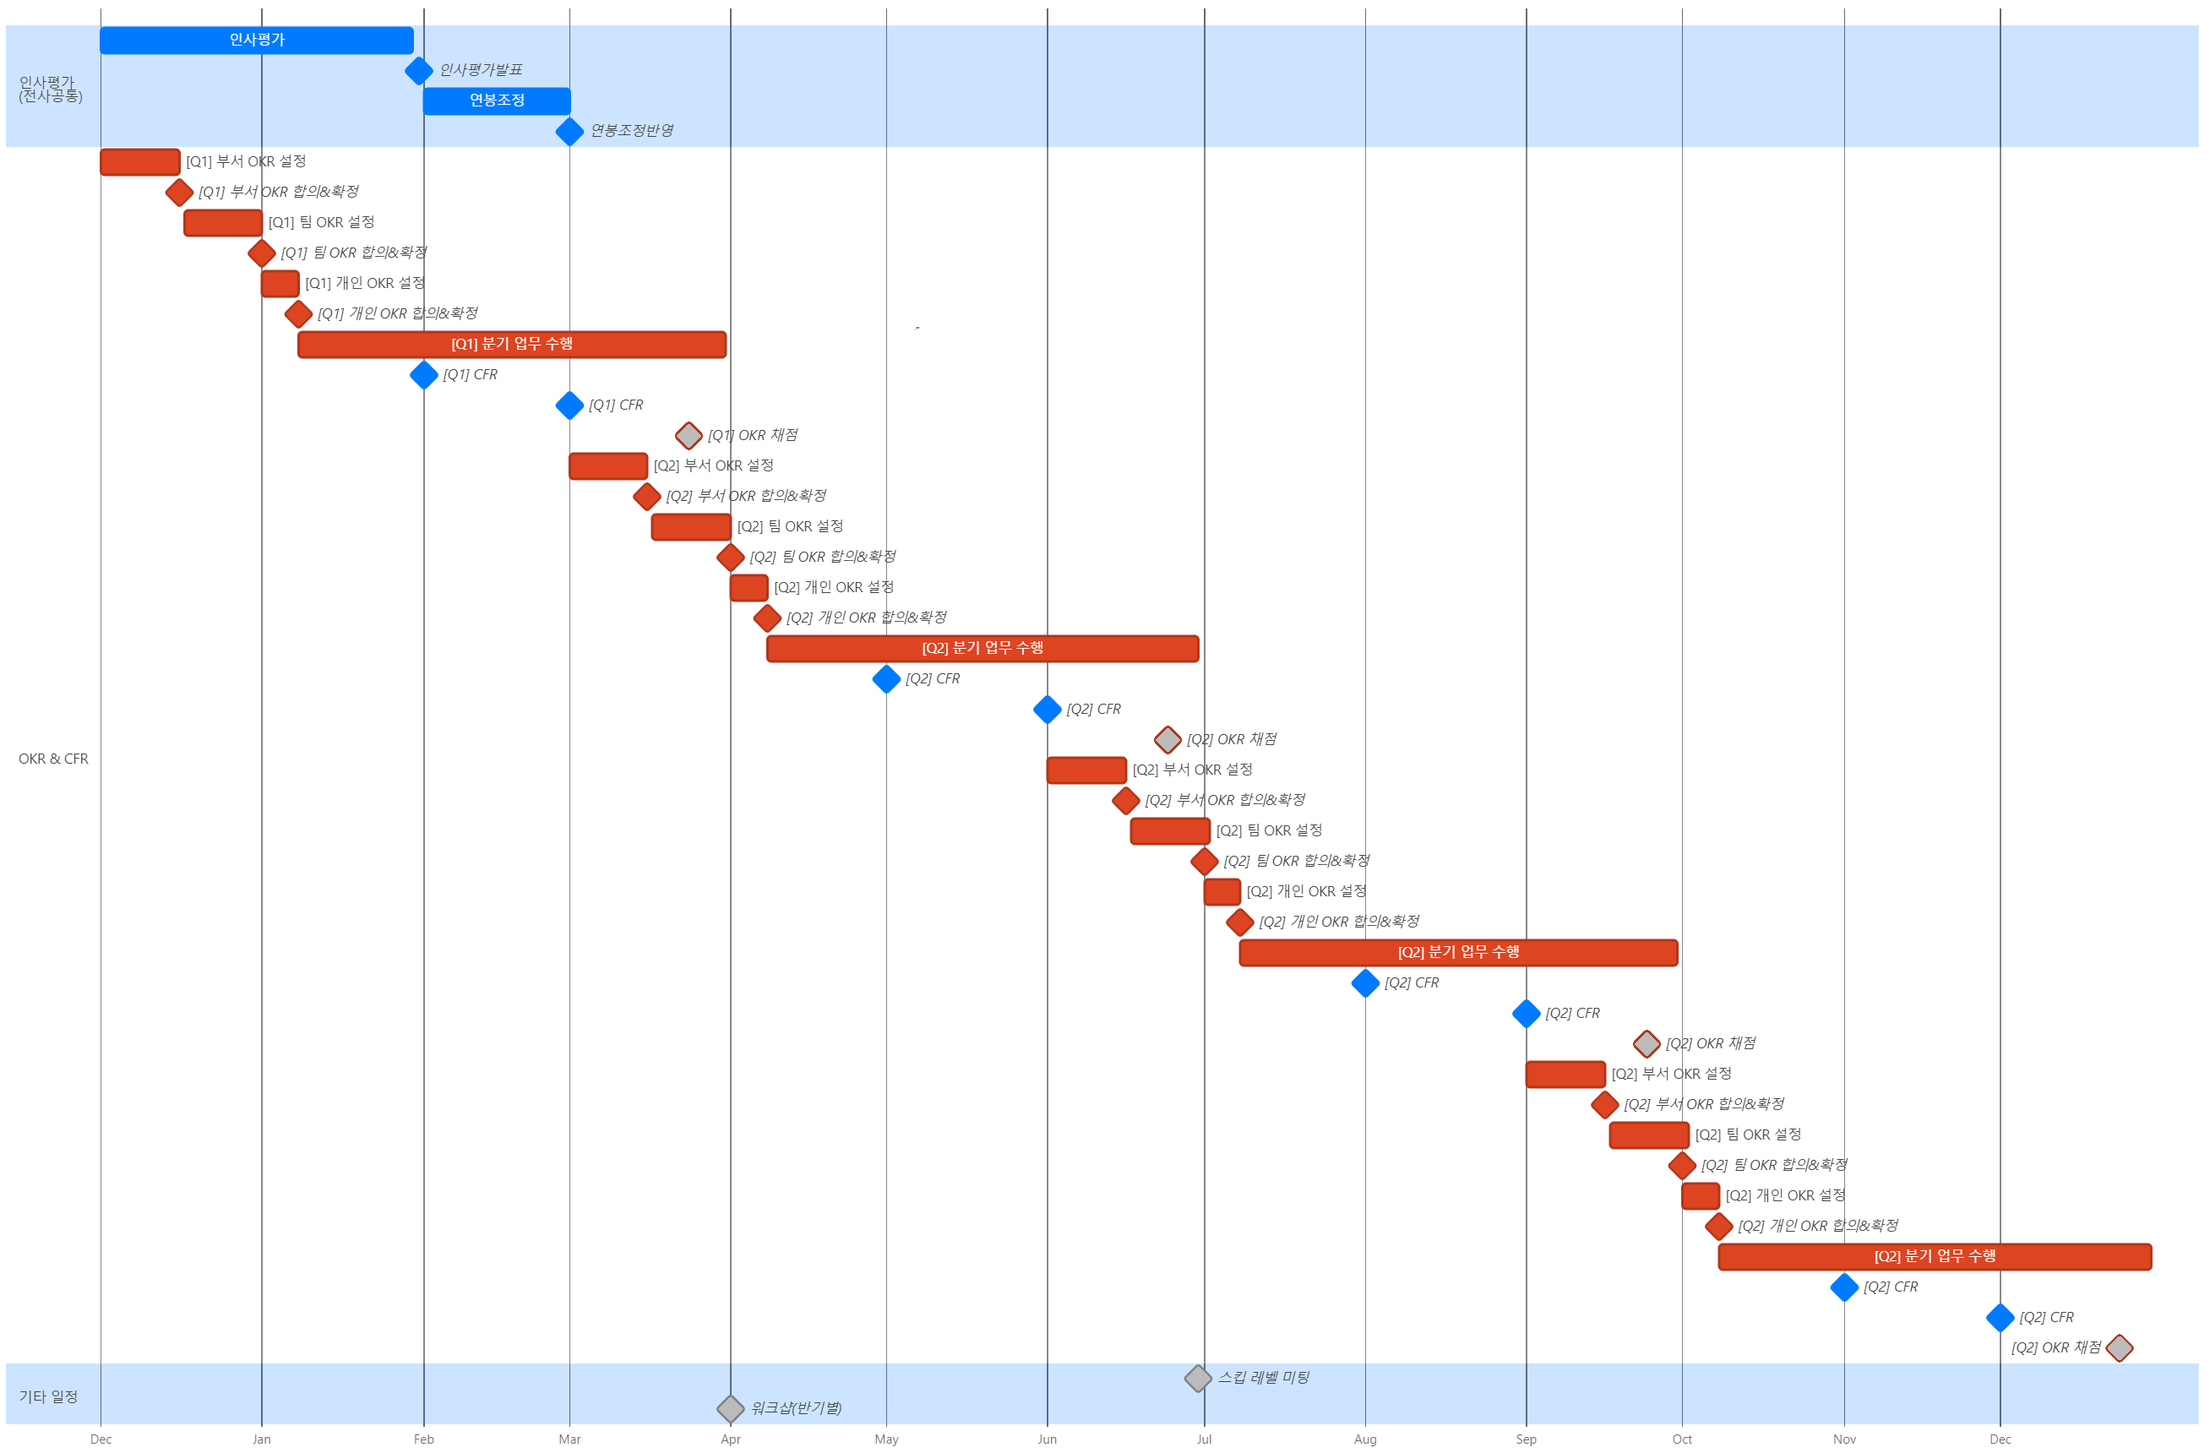
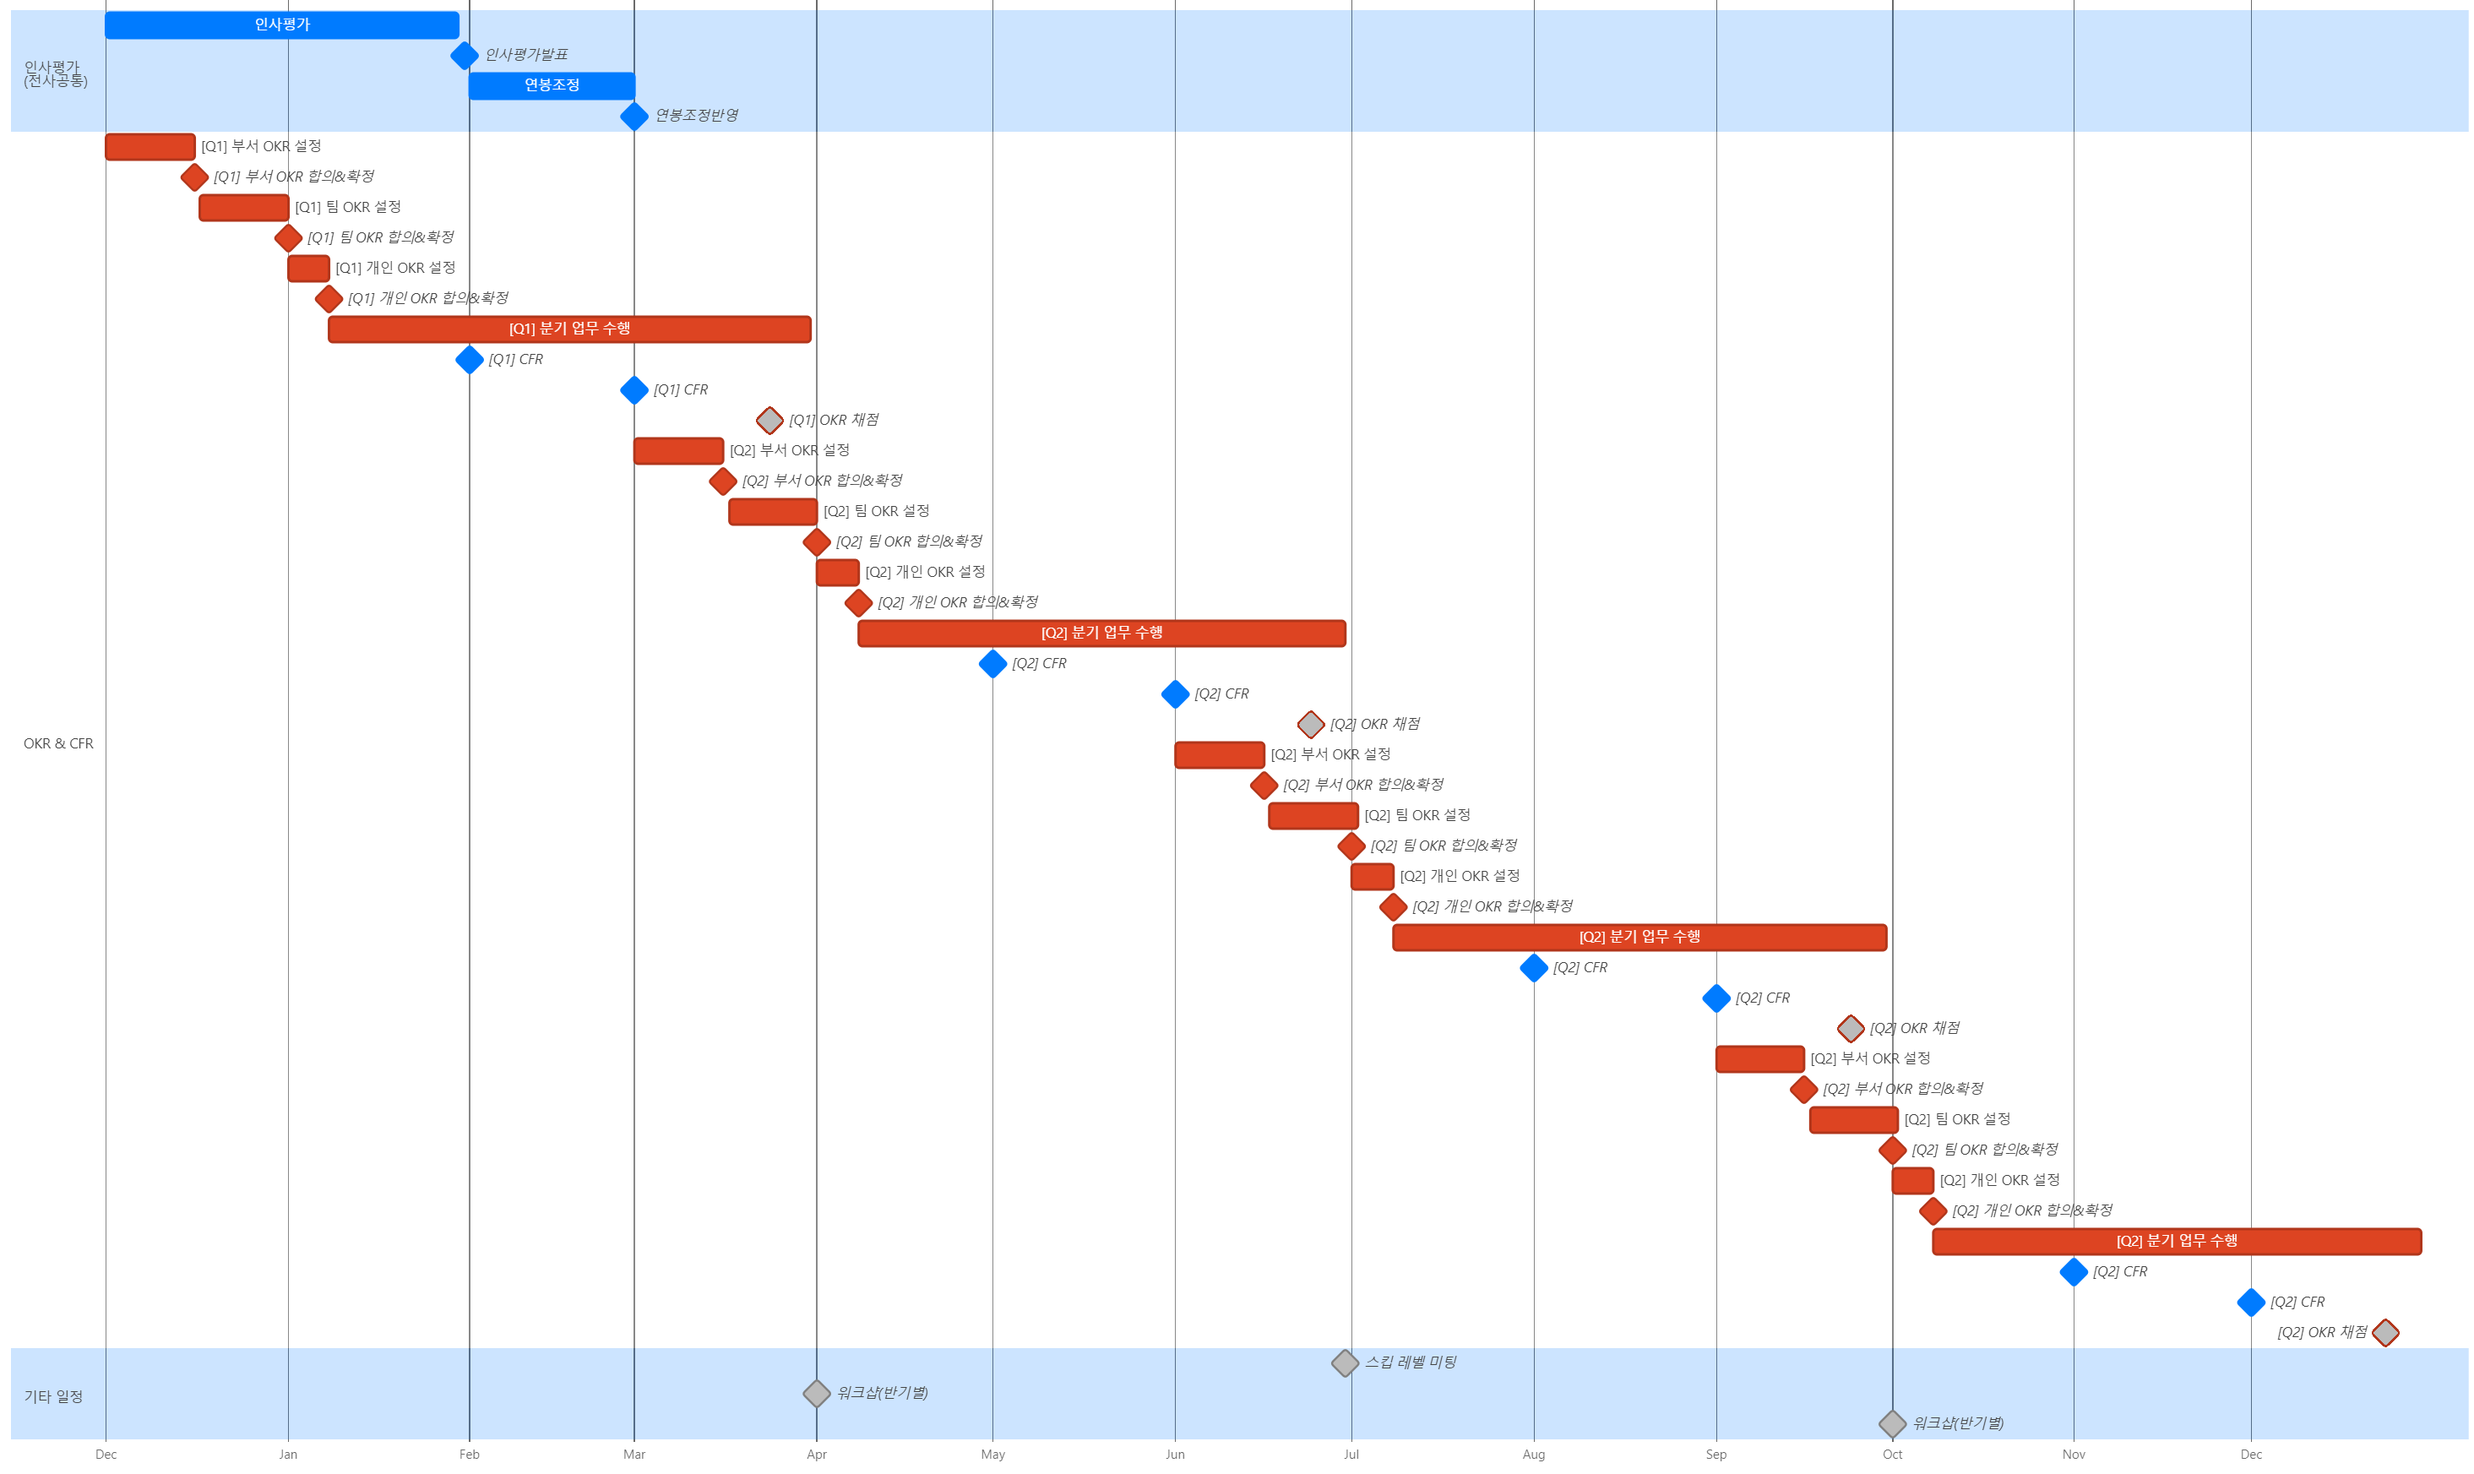
add skip level meeting

Changed region(s): [[0.0, 0.0, 1.0, 1.0], [0.0, 0.493, 0.031, 0.5238]]

diff --git a/main.md b/main.md
@@ -917,6 +917,32 @@ table {
 
 ---
 
+# 스킵 레벨 미팅
+
+<style scoped>
+p, ul {
+	font-size: 20px;
+}
+</style>
+
+스킵 레벨 미팅은 직급을 건너뛰고 진행하는 회의이다[1].
+팀원 - 팀장 - 그룹장 구조에서 예를 들면, 팀장 없이 팀원과 그룹장이 갖는 회의이다.
+직급 건너뛰기 회의가 필요한 이유는 직원 대부분 직속 상사에 대한 비판을 꺼리기 때문이다. 또한 새로이 리더가 된 사람들은 의식적, 무의식적으로 비판을 막으려는 경향이 있다.
+
+스킵 레벨 미팅에는 신중한 주의가 필요하다. 중간 관리자에 대한 불만을 늘어놓는 자리가 아님을 명확히 해야 한다. 이 회의의 목적은 중간관리자를 처벌하는 것이 아니라, 그들에게 도움을 주는 것이다. 회의의 목표는 다음과 같다:
+- 중간급 리더가 더 나은 리더가 되도록 돕기
+- 팀원들이 그들에게 더 편안한 마음으로 피드백을 줄 수 있도록 격려하기
+
+회의 산출물은 다음과 같다:
+- 중간급 리더에게 전달할 회의록. 회의 참가자들이 볼 수 있도록 화면에 띄우고 회의를 진행한다
+	- 회의 종료 전에 참가자들에게 수정할 타이밍을 주어야 한다
+
+중간급 리더에게 회의록을 전달하고 논의한다. 개선 요구가 있다면 확인 뒤 변화를 시도한다.
+
+> [1] 상위 리더는 중간 리더와 반드시 사전 협의를 가진 뒤에 스킵 레벨 미팅을 진행해야 한다.
+
+---
+
 <!-- header: AutoCrypt V2X.platform 그룹 | 리더 가이드 | **목표공유** -->
 # <!--fit--> **목표공유**
 
